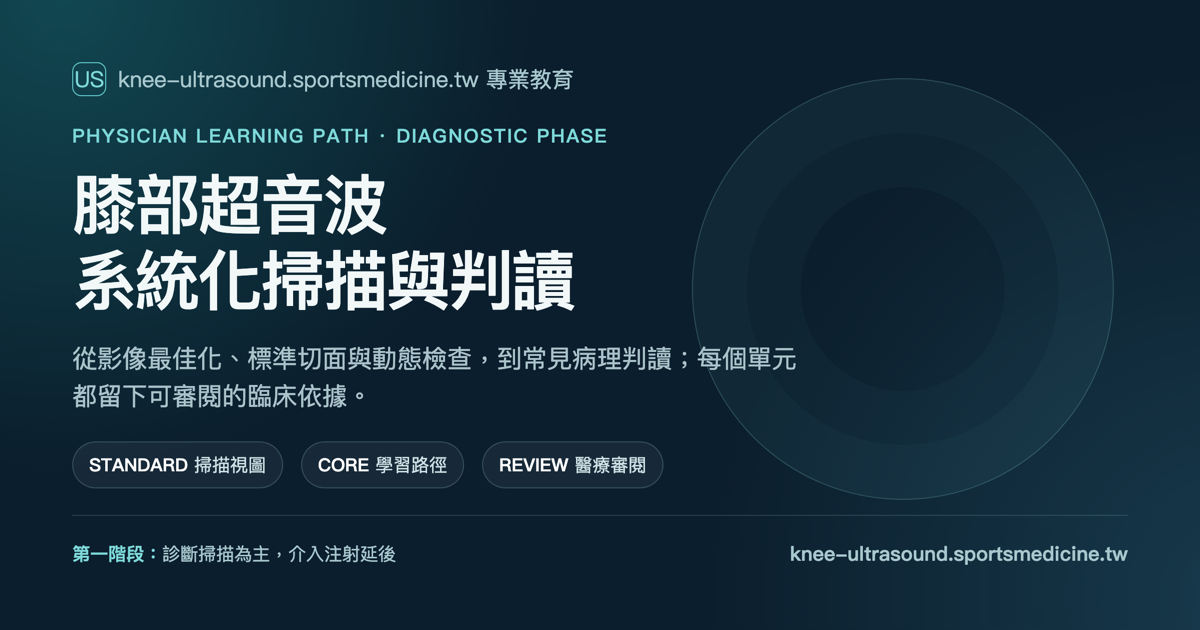
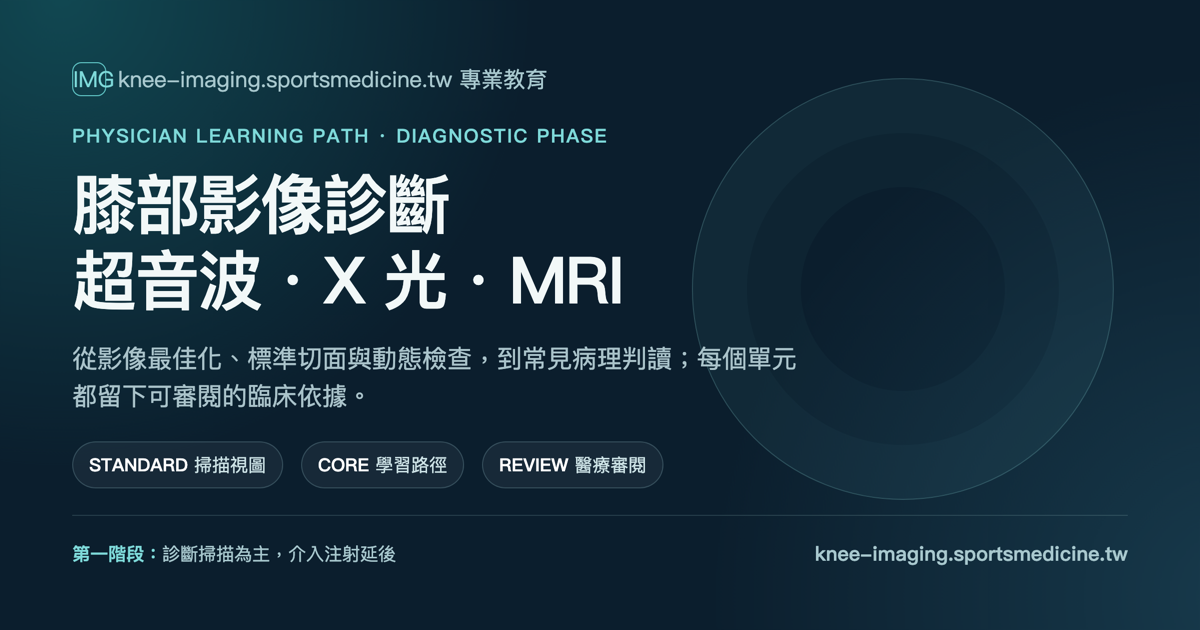
feat: 站名與網域改版——膝部影像診斷課程（超音波/X光/MRI 三模態），nav 標示超音波區塊，og 重產，全站網域改 knee-imaging.sportsmedicine.tw

diff --git a/src/web/og.html b/src/web/og.html
@@ -2,7 +2,7 @@
 <html lang="zh-Hant-TW">
   <head>
     <meta charset="utf-8" />
-    <title>膝部超音波診斷課程</title>
+    <title>膝部影像診斷課程</title>
     <style>
       * { box-sizing: border-box; margin: 0; padding: 0; }
       html, body { width: 1200px; height: 630px; }
@@ -55,10 +55,10 @@
     </style>
   </head>
   <body>
-    <div class="brand"><span class="mark">US</span>knee-ultrasound.sportsmedicine.tw 專業教育</div>
+    <div class="brand"><span class="mark">IMG</span>knee-imaging.sportsmedicine.tw 專業教育</div>
     <main class="main">
       <div class="eyebrow">PHYSICIAN LEARNING PATH · DIAGNOSTIC PHASE</div>
-      <h1>膝部超音波<br />系統化掃描與判讀</h1>
+      <h1>膝部影像診斷<br />超音波・X 光・MRI</h1>
       <p class="lede">從影像最佳化、標準切面與動態檢查，到常見病理判讀；每個單元都留下可審閱的臨床依據。</p>
     </main>
     <div class="stats">
@@ -68,7 +68,7 @@
     </div>
     <footer class="foot">
       <span class="scope"><b>第一階段：</b>診斷掃描為主，介入注射延後</span>
-      <span class="url">knee-ultrasound.sportsmedicine.tw</span>
+      <span class="url">knee-imaging.sportsmedicine.tw</span>
     </footer>
   </body>
 </html>

diff --git a/src/build/verify_refs.py b/src/build/verify_refs.py
@@ -25,7 +25,7 @@ ROOT = Path(__file__).resolve().parents[2]
 DATA = Path(os.environ.get("COURSE") or ROOT / "course").resolve() / "data"
 ESUMMARY = "https://eutils.ncbi.nlm.nih.gov/entrez/eutils/esummary.fcgi"
 BATCH = 180
-USER_AGENT = "knee-ultrasound-course/1.0 (+https://knee-ultrasound.sportsmedicine.tw)"
+USER_AGENT = "knee-ultrasound-course/1.0 (+https://knee-imaging.sportsmedicine.tw)"
 
 
 def norm(s: str) -> str:

diff --git a/README.md b/README.md
@@ -1,6 +1,6 @@
 # 膝部超音波診斷課程
 
-醫師導向、zh-TW 繁體中文的膝部診斷性肌肉骨骼超音波課程網站。正式網址僅預定為 <https://knee-ultrasound.sportsmedicine.tw>；本次不部署。
+醫師導向、zh-TW 繁體中文的膝部診斷性肌肉骨骼超音波課程網站。正式網址僅預定為 <https://knee-imaging.sportsmedicine.tw>；本次不部署。
 
 目前狀態為 `draft / noindex`。全課 8 個單元均尚未由具資格醫師簽核；完成本課不代表具備獨立執行、判讀或 credentialing 資格。本課不教授穿刺、注射或其他介入操作；收錄影片若含介入片段，會標明起點並框限本課診斷段落。
 

diff --git a/REVIEW.md b/REVIEW.md
@@ -57,7 +57,7 @@
 | `_headers` 含 `X-Robots-Tag: noindex` | ✅（`noindex, nofollow`） |
 | `robots.txt` 為 `Disallow: /` | ✅ |
 | `sitemap.xml` 為空清單 | ✅（空 `<urlset>`） |
-| `course.config.json` 的 `site.url` = `https://knee-ultrasound.sportsmedicine.tw` | ✅ |
+| `course.config.json` 的 `site.url` = `https://knee-imaging.sportsmedicine.tw` | ✅ |
 | `allowIndexing` 維持 false | ✅（未更動） |
 | CI（quality.yml）在該分支 | ✅ 綠（含本輪 commit `9083054` 的最新 run） |
 

diff --git a/docs/DEPLOYMENT.md b/docs/DEPLOYMENT.md
@@ -17,7 +17,7 @@
 - root directory：repo 根目錄
 - build command：`uv run python src/build/build.py`
 - build output：`dist`
-- 正式網域：`https://knee-ultrasound.sportsmedicine.tw`
+- 正式網域：`https://knee-imaging.sportsmedicine.tw`
 - Cloudflare zone：`sportsmedicine.tw`
 
 這些值只是 frozen brief。此次不建立 Cloudflare Pages、不連接 GitHub、不建立 preview、不修改 DNS、不加入 custom domain，也不執行 production smoke。

diff --git a/docs/BUILD_PLAN.md b/docs/BUILD_PLAN.md
@@ -6,7 +6,7 @@
 - 受眾與語言：醫師；zh-TW 繁體中文
 - 範圍：診斷掃描與判讀；介入操作延後
 - recent-content cutoff：2021-08-01
-- 網站記錄：`https://knee-ultrasound.sportsmedicine.tw`
+- 網站記錄：`https://knee-imaging.sportsmedicine.tw`
 - GitHub：`keanu77/knee-ultrasound-course`，private，預設分支 `main`
 - 工作分支：`feat/knee-course-v1`
 - 內容負責人與預定審閱者：吳易澄（復健科專科醫師）
